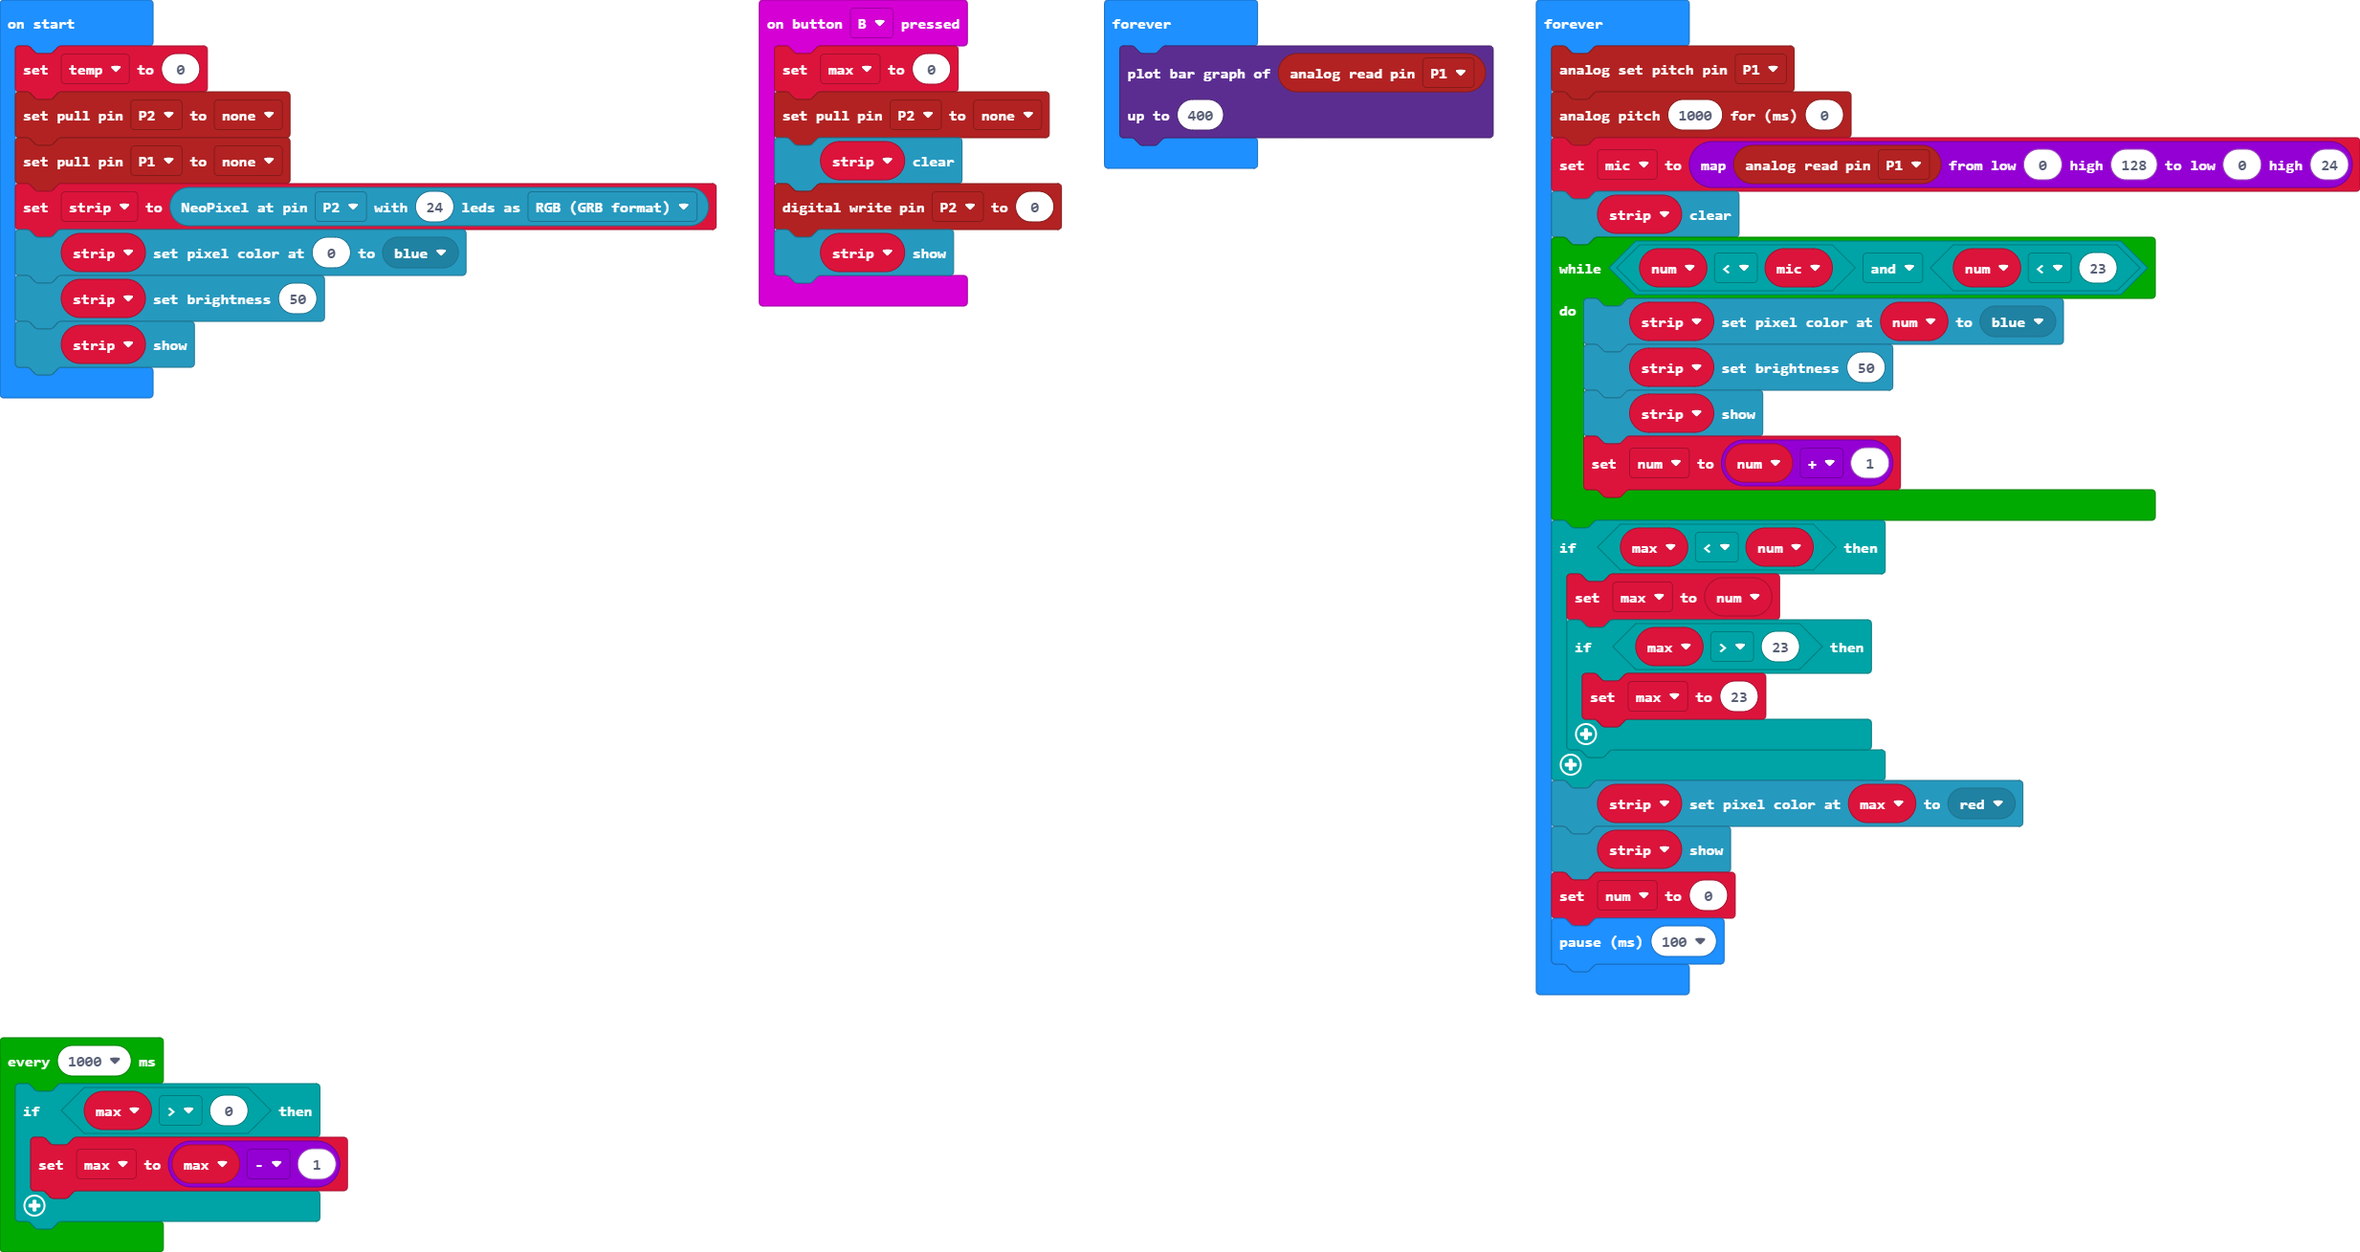
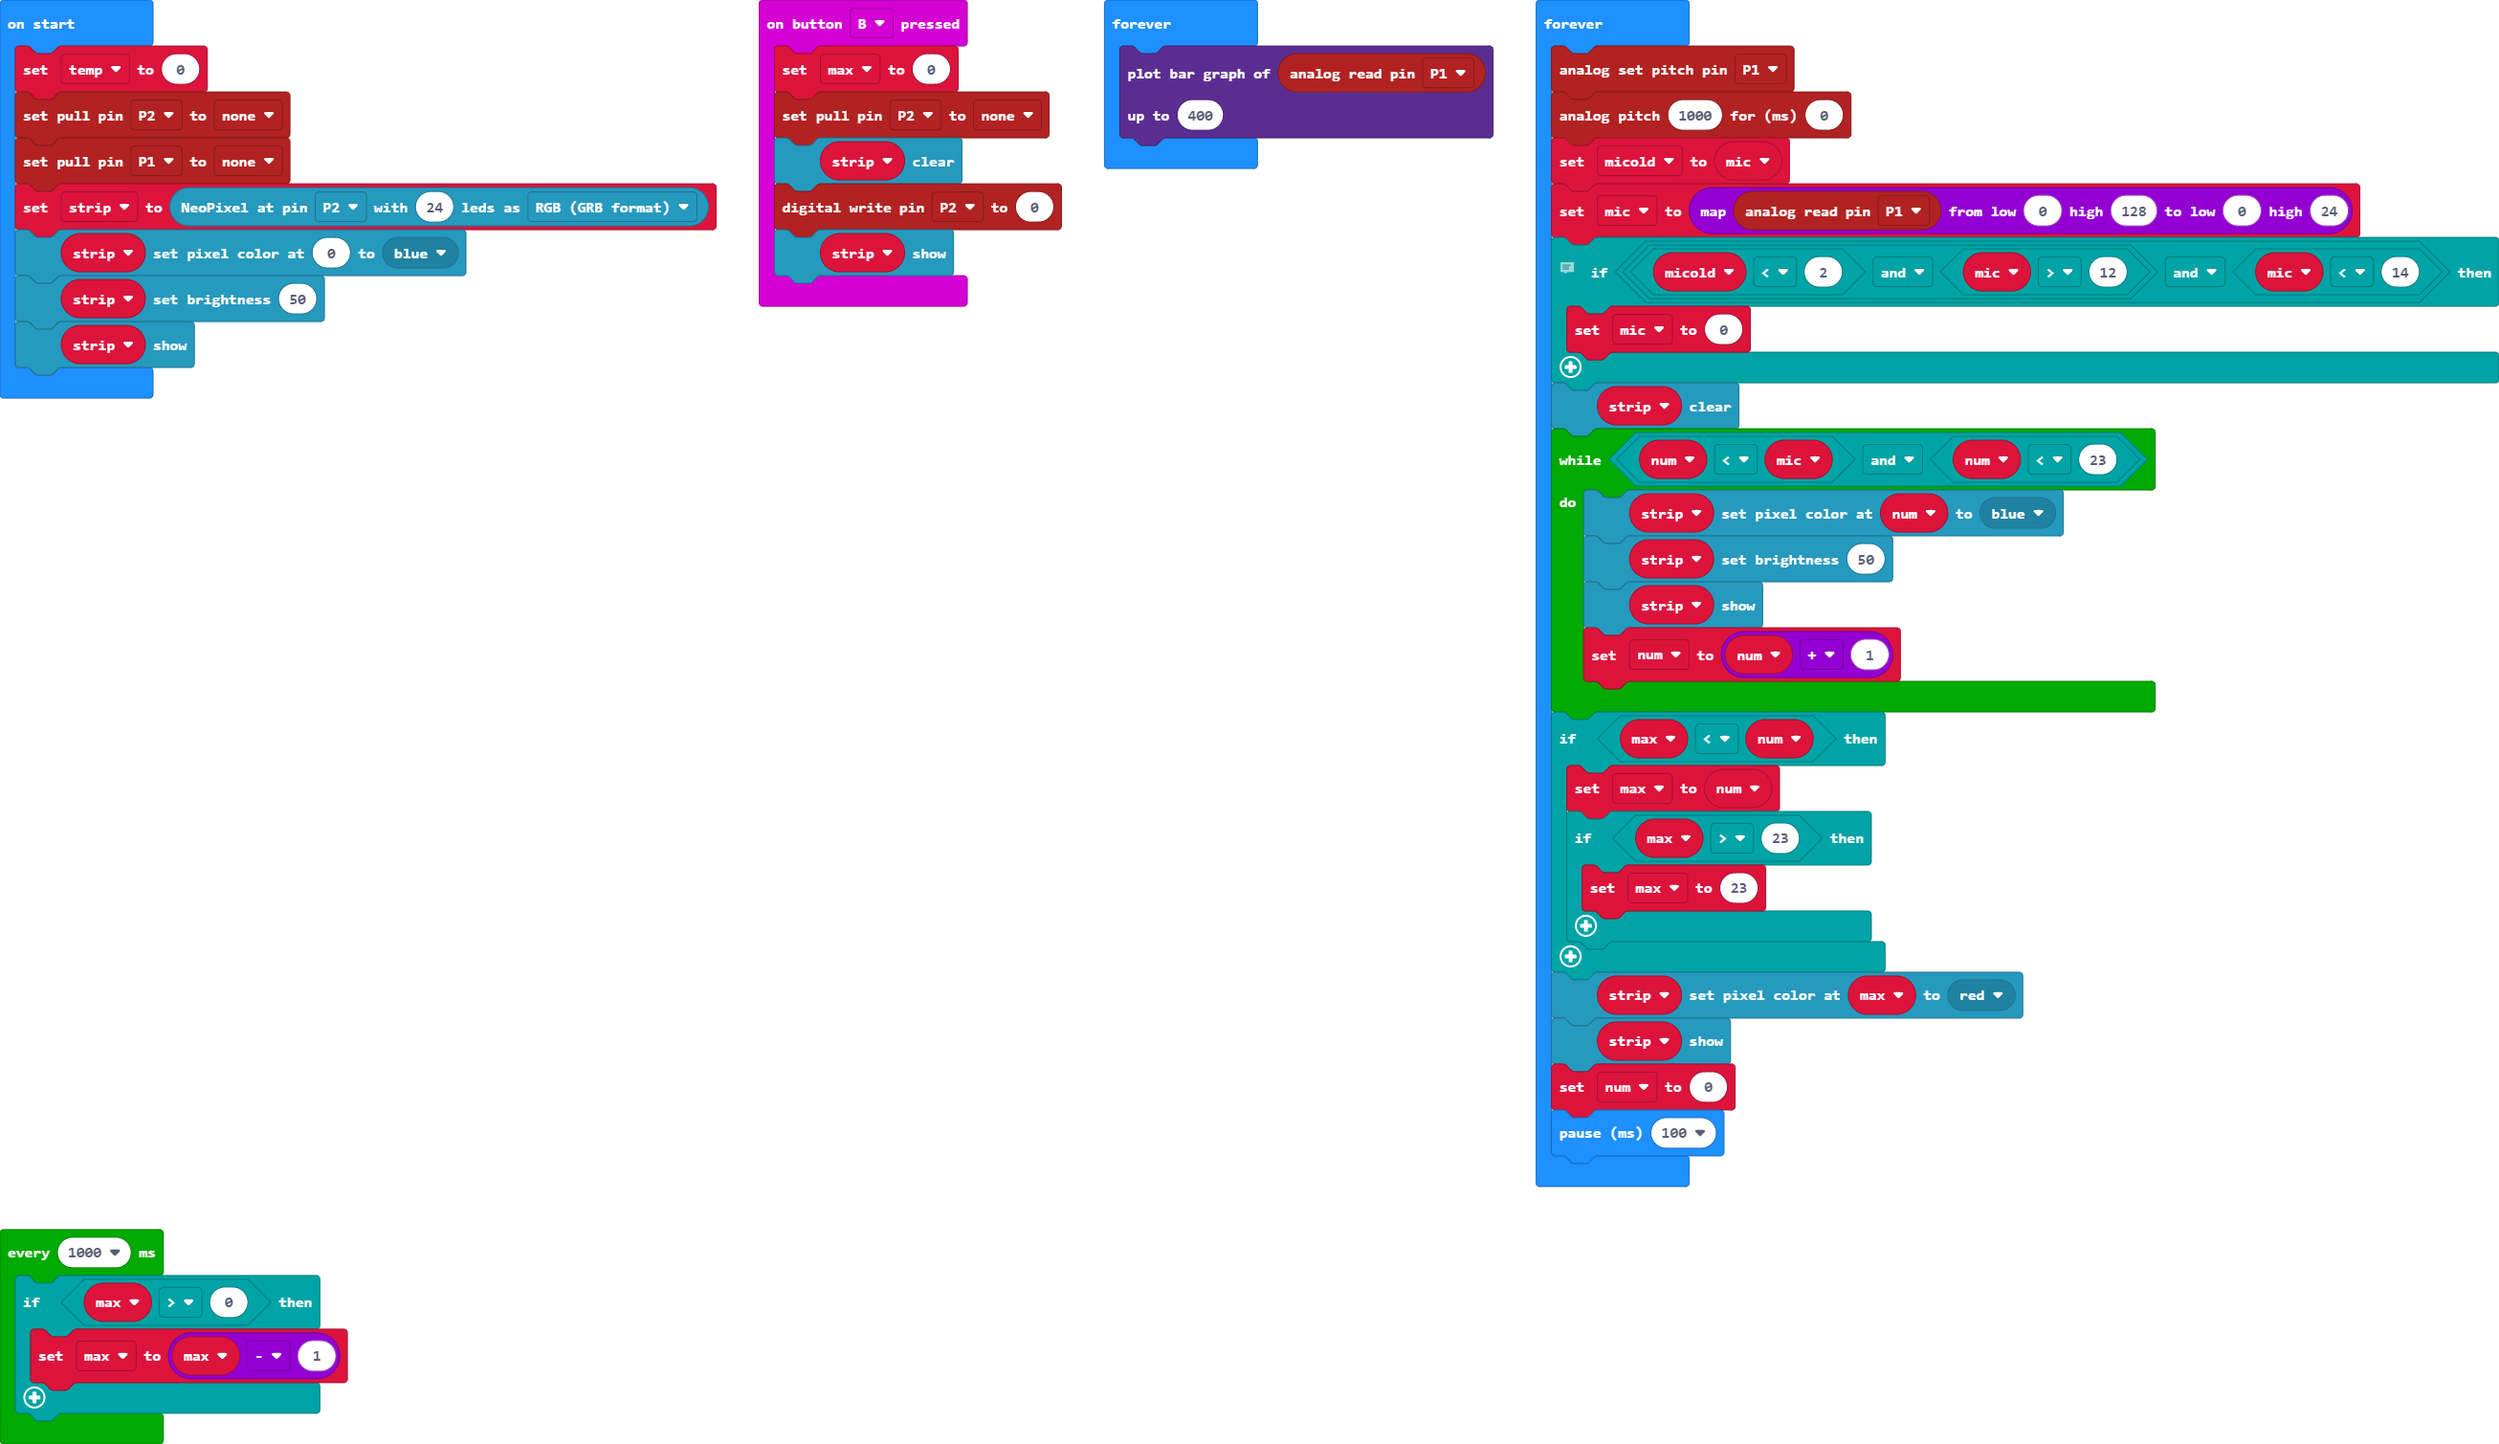
Update pxt.json, main.blocks, main.ts

Changed region(s): [[0.0, 0.0, 1.0, 0.8251], [0.0, 0.8251, 0.1561, 1.0]]

diff --git a/main.ts b/main.ts
@@ -7,6 +7,7 @@ input.onButtonPressed(Button.B, function () {
 })
 let num = 0
 let mic = 0
+let micold = 0
 let max = 0
 let strip: neopixel.Strip = null
 let temp = 0
@@ -30,7 +31,12 @@ basic.forever(function () {
 basic.forever(function () {
     pins.analogSetPitchPin(AnalogPin.P1)
     pins.analogPitch(1000, 0)
+    micold = mic
     mic = Math.map(pins.analogReadPin(AnalogPin.P1), 0, 128, 0, 24)
+    // filter
+    if (micold < 2 && mic > 12 && mic < 14) {
+        mic = 0
+    }
     strip.clear()
     while (num < mic && num < 23) {
         strip.setPixelColor(num, neopixel.colors(NeoPixelColors.Blue))
